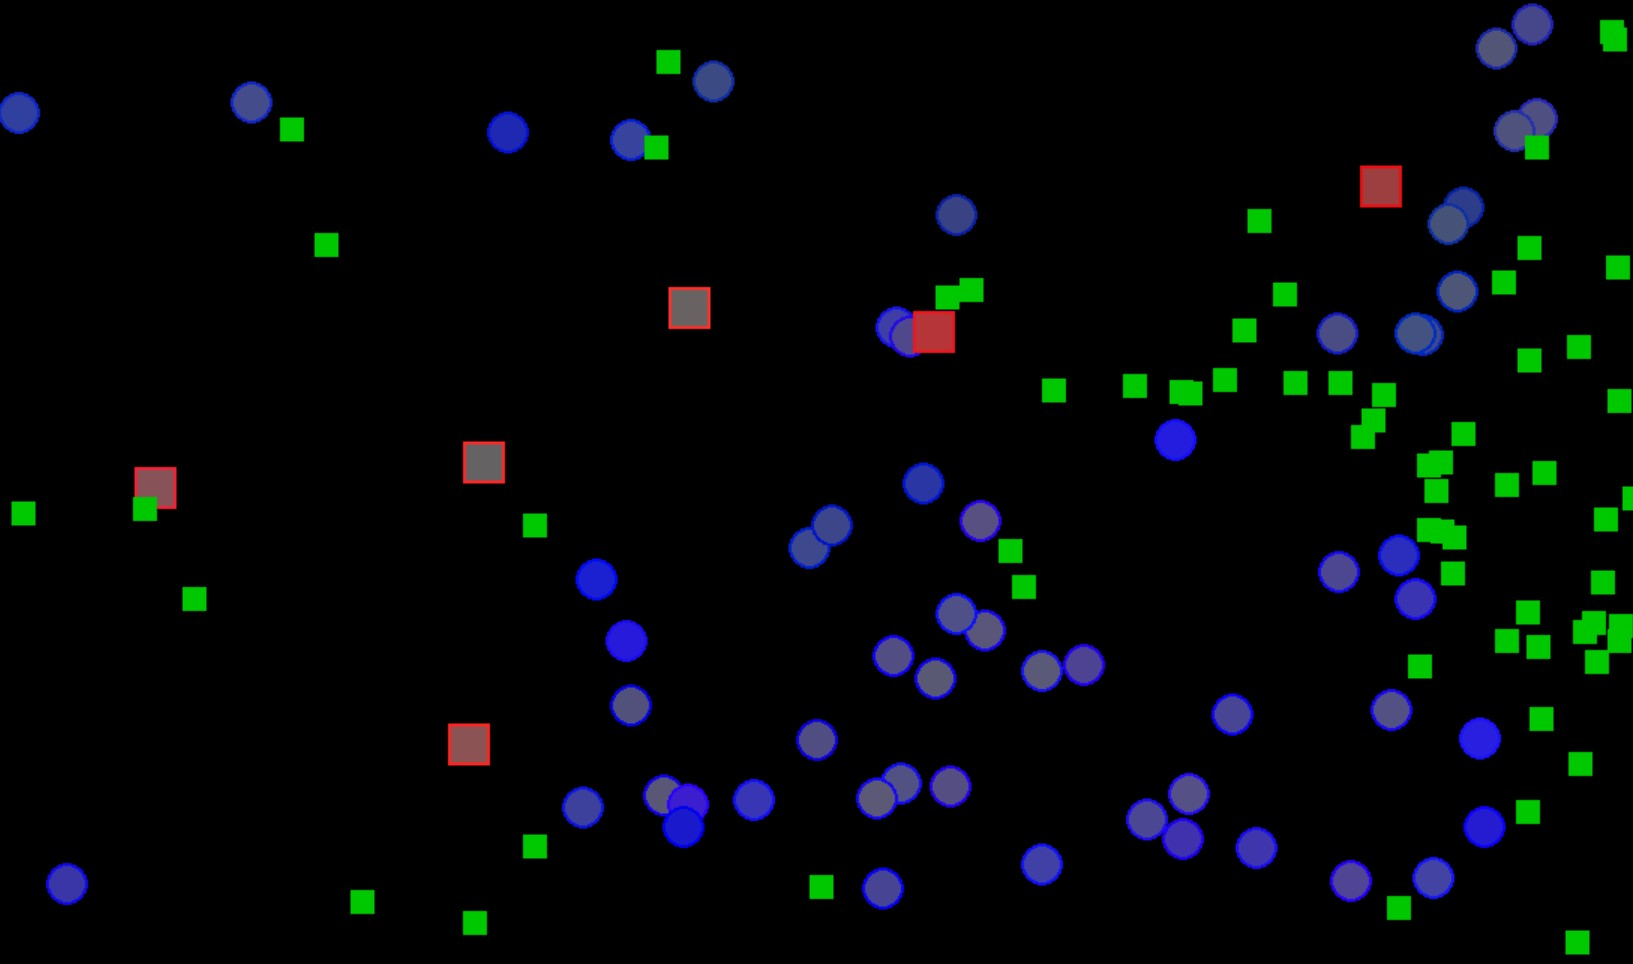
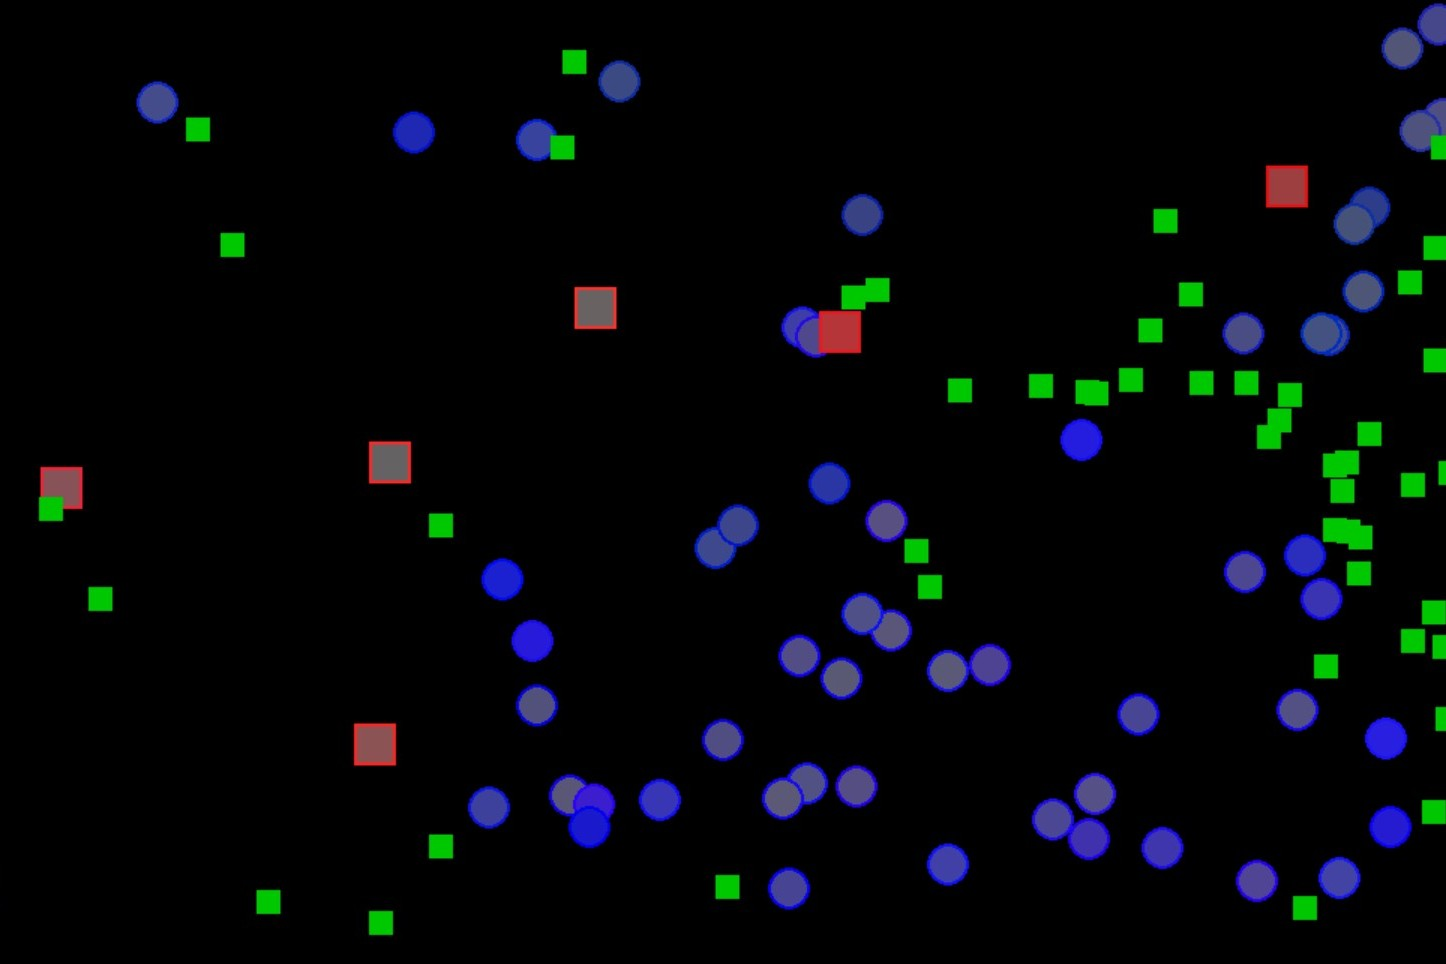
98

diff --git a/assets/main.scss b/assets/main.scss
@@ -147,10 +147,6 @@
 
 }
 
-#render_video {
-    transform: rotate(90deg);
-}
-
 .clearfix::after {
     content: "";
     clear: both;
